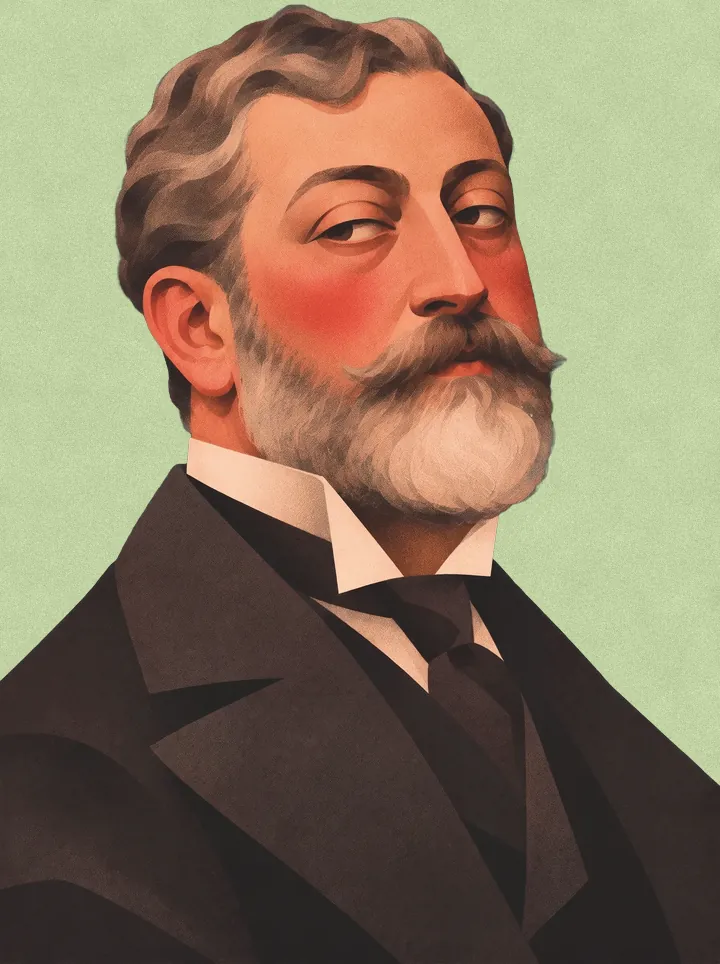
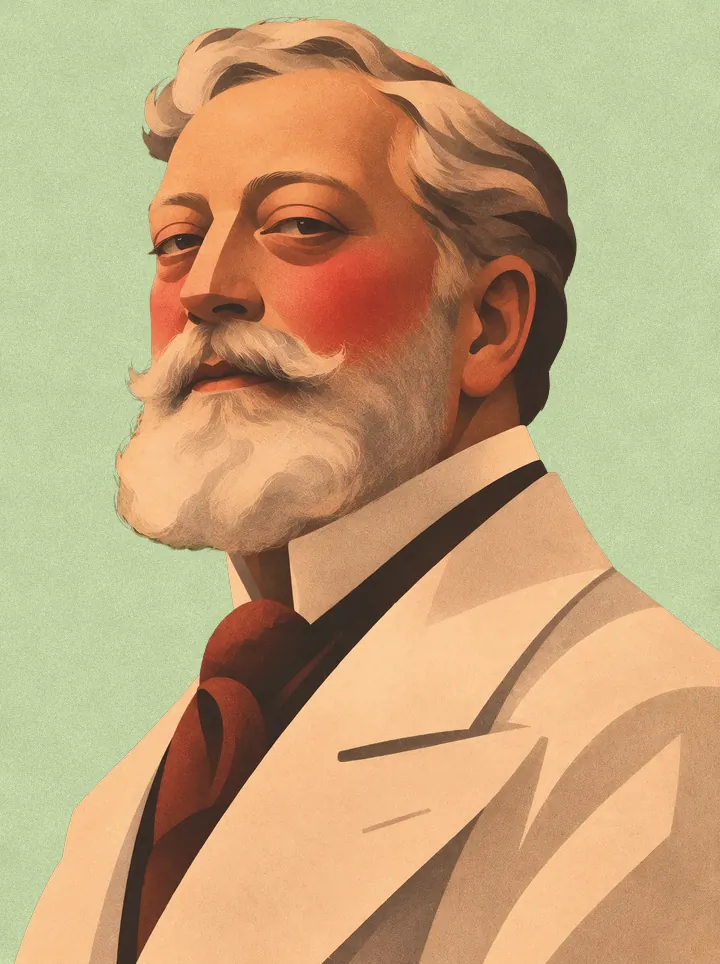
Songs: the composer's face in the practice bar's singer circle; new Tosti portrait from change_2.fig
Claude-Session: https://claude.ai/code/session_01J9nR1BmP9TjDnKqecdbpyd

diff --git a/src/standalone/Practice.tsx b/src/standalone/Practice.tsx
@@ -28,6 +28,8 @@ import {
 } from "../score/ScoreView";
 import type { Lane, ScoreLayout } from "../score/layout";
 import { ART_TONES, PORTRAITS } from "./opera-extra";
+import { composerNamed } from "./composers";
+import { SONGS } from "./songs";
 import {
   decorate,
   syllableRanges,
@@ -1004,6 +1006,12 @@ function RoleFace({ k }: { k: string }) {
   const art = PORTRAITS[k];
   if (art) return <img className="face-img" src={art.face} alt="" />;
   const [o, c] = k.split(":");
+  // a song has no character: its composer's face stands in
+  if (o === "songs") {
+    const s = SONGS.find((x) => x.id === c);
+    const face = s && composerNamed(s.composer).face;
+    return face ? <img className="face-img" src={face} alt="" /> : null;
+  }
   const ch = OPERAS.find((x) => x.id === o)?.chars.find((x) => x.id === c);
   return ch ? <NamePlate name={ch.name} small /> : null;
 }

diff --git a/scripts/art/composers2.py b/scripts/art/composers2.py
@@ -1,4 +1,4 @@
-"""The composer portraits from the user's later Figma files (composers_1_1, composers_2, composers_3, CHANGE): each frame named
+"""The composer portraits from the user's later Figma files (composers_1_1, composers_2, composers_3, CHANGE, change_2): each frame named
 after its composer, a 1792 x 2400 portrait and a 1000 x 1000 face, holding the cut-out exactly as placed. Each is drawn
 over its own pale backdrop with the same tone and paper grain as composers.py, at the app's two sizes.
 
@@ -69,7 +69,7 @@ os.makedirs(OUT, exist_ok=True)
 done = {}
 k = 0
 # the later files win over the earlier ones; mozart.fig's frames kept the name of the page they were copied from
-FILES = [('composers_1_1', None), ('composers_2', None), ('composers_3', None), ('mozart_new', 'Mozart'), ('change', None)]
+FILES = [('composers_1_1', None), ('composers_2', None), ('composers_3', None), ('mozart_new', 'Mozart'), ('change', None), ('change_2', None)]
 for f, rename in FILES:
     fig = f'{FIGS}/{f}'
     if not os.path.exists(f'{fig}/nodes.json'): continue
